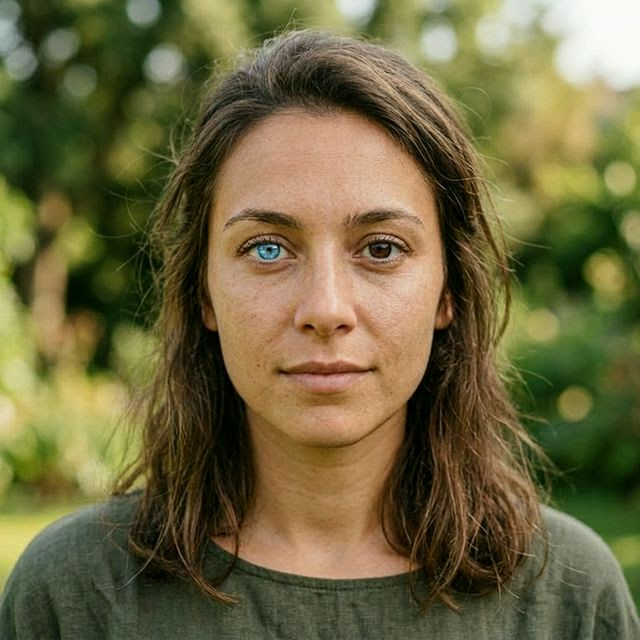
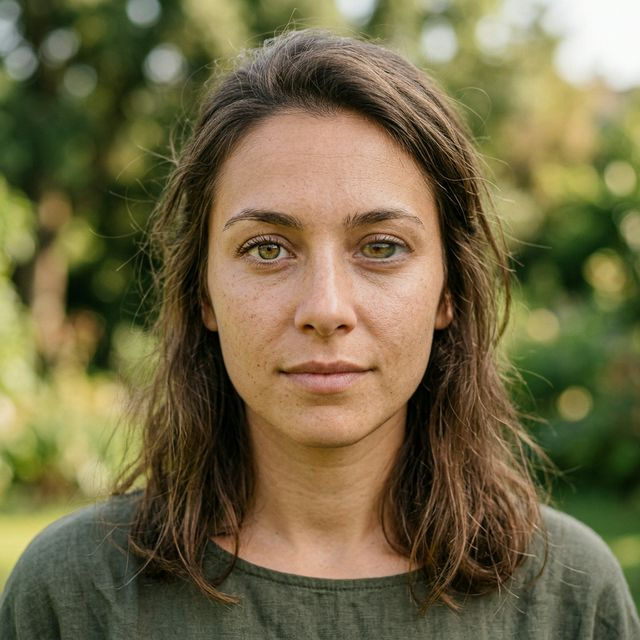
feat: refine case 01 pupil artifact with oval shape

diff --git a/script.js b/script.js
@@ -3,8 +3,7 @@ const cases = [
         icon: '👁', title: 'Olhos e Olhar',
         real: 'images/real_case_01.png', fake: 'images/fake_case_01.png',
         hotspots: [
-            { top: 40, left: 40, label: 'Íris azul artificial' },
-            { top: 40, left: 60, label: 'Íris castanha original' }
+            { top: 40, left: 60, label: 'Pupila ovalada ou assimétrica em relação ao outro olho' }
         ]
     },
     {
@@ -22,11 +21,10 @@ const cases = [
         ]
     },
     {
-        icon: '🧱', title: 'Fundo "Derretido"',
+        icon: '🧱', title: 'Fundo Distorcido',
         real: 'images/real_case_04.png', fake: 'images/fake_case_04.png',
         hotspots: [
-            { top: 45, left: 15, label: 'Fundo de tijolos distorcido' },
-            { top: 30, left: 80, label: 'Madeira ondulada no topo' }
+            { top: 25, left: 30, label: 'Leve ondulação ou distorção irreal no padrão do fundo' }
         ]
     },
     {
@@ -55,15 +53,14 @@ const cases = [
         icon: '✋', title: 'Mãos e Periferias',
         real: 'images/real_case_08.png', fake: 'images/fake_case_08.png',
         hotspots: [
-            { top: 70, left: 50, label: 'Dedos derretidos e borrados (Artefato de IA)' },
-            { top: 60, left: 65, label: 'Brinco distorcido' }
+            { top: 70, left: 55, label: 'Dedo extra (6 dedos) gerado por confusão da IA' }
         ]
     },
     {
         icon: '🧴', title: 'Pele "Plástica"',
         real: 'images/real_case_09.png', fake: 'images/fake_case_09.png',
         hotspots: [
-            { top: 50, left: 50, label: 'Pele excessivamente lisa, sem poros ou marcas' }
+            { top: 50, left: 50, label: 'Textura da pele lavada ("filtro de beleza" excessivo)' }
         ]
     },
     {
